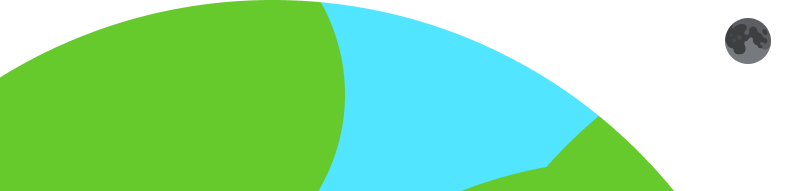
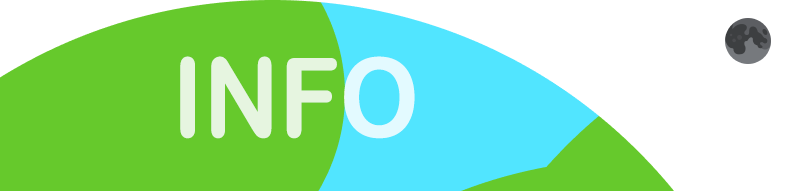
Bilder
På bilderna finns det nu text som säger vilka delar dom tar dig till.

Changed region(s): [[0.2127, 0.288, 0.5468, 0.733]]

diff --git a/index.html b/index.html
@@ -6,7 +6,7 @@
     </head>
     <body style="margin: 0; height: 100%; width: 100%; display: flex; flex-direction: column;">
         <aside style="padding-bottom: 0; width: 100%;">
-        <a href="FAQ.html"><img src="Img/Mars.png" alt="The planet Mars" width="160" height="160" class="Mars"></a>
+        <a href="FAQ.html"><img src="Img/MarsFaq.png" alt="The planet Mars" width="160" height="160" class="Mars"></a>
         </aside>
         <aside style="width: 50%; margin: auto;">
             <h1 style="text-align: center; font-size: 6vw; color: #F5F5F5; padding-top: 1rem; margin-bottom: 0;">We need more space</h1>
